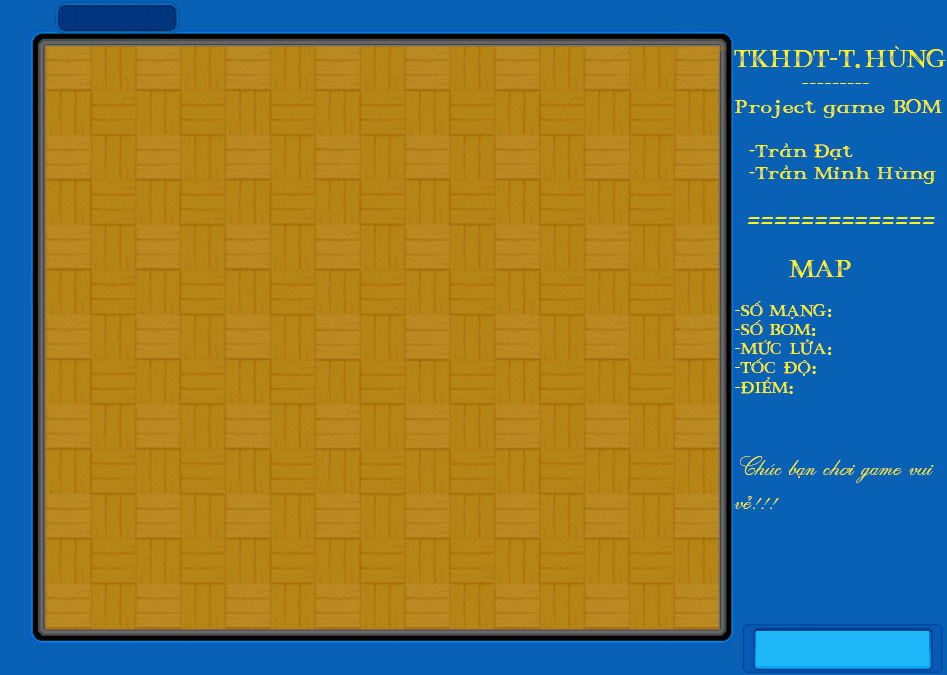
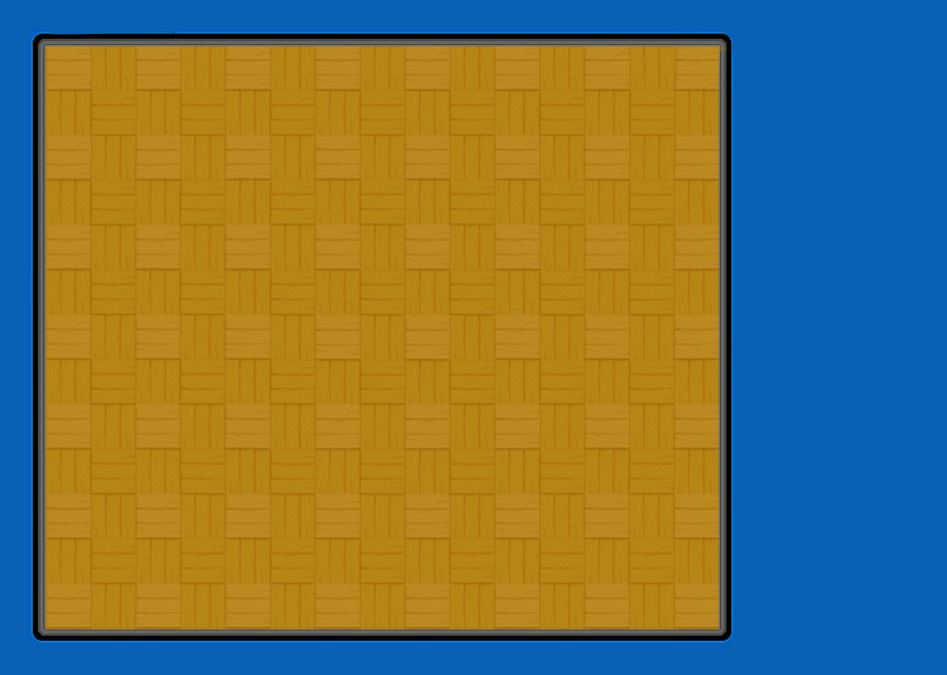
render new map

diff --git a/core/src/uet/oop/game/Manager/GameManager.java b/core/src/uet/oop/game/Manager/GameManager.java
@@ -2,9 +2,9 @@ package uet.oop.game.Manager;
 
 public class GameManager {
     public static final float PPM = 100;
-    public static final float V_WIDTH = 675;
+    public static final float V_WIDTH = 765;
     public static final float V_HEIGHT = 675;
 
-    public static final String MAP_FILES = "map/map1.tmx";
+    public static final String MAP_FILES = "map/mapfinal.tmx";
     public static final String BOMBER_ATLAS = "sprite/spriteWhite.txt";
 }

diff --git a/desktop/src/uet/oop/game/desktop/Main.java b/desktop/src/uet/oop/game/desktop/Main.java
@@ -7,7 +7,7 @@ import uet.oop.game.BombermanGame;
 public class Main {
 	public static void main (String[] arg) {
 		LwjglApplicationConfiguration config = new LwjglApplicationConfiguration();
-		config.width = 675;
+		config.width = 765;
 		config.height = 675;
 		new LwjglApplication(new BombermanGame(), config);
 	}
